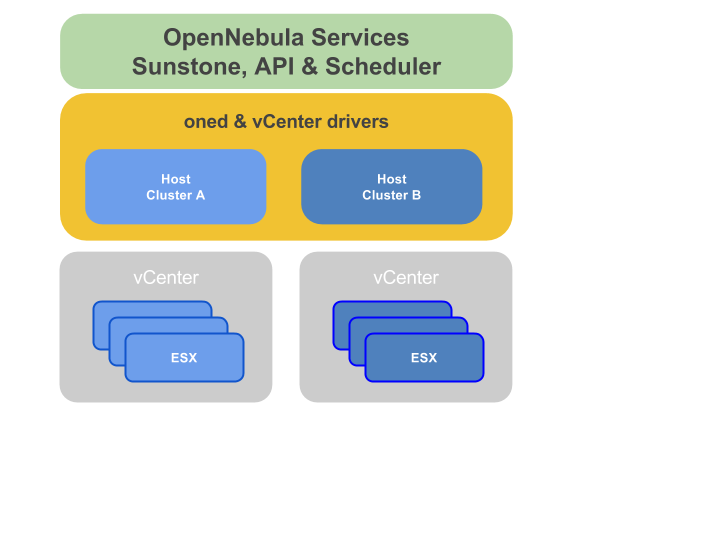
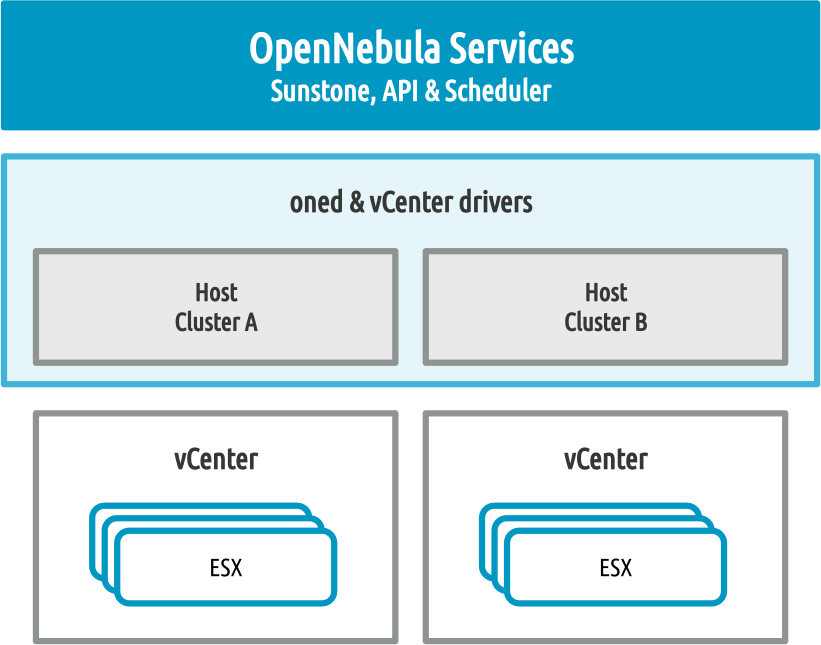
M #-: Changes on VMware cloud design
Change images
Add NSX information

diff --git a/source/deployment/cloud_design/vmware_cloud_architecture.rst b/source/deployment/cloud_design/vmware_cloud_architecture.rst
@@ -4,14 +4,14 @@
 VMware Cloud Architecture
 ================================================================================
 
-OpenNebula is intended for companies willing to create a self-service cloud environment on top of their VMware infrastructure without having to abandon their investment in VMware and retool the entire stack. In these environments, OpenNebula seamlessly integrates with existing vCenter infrastructures to leverage advanced features — such as vMotion, HA or DRS scheduling — provided by the VMware vSphere product family. OpenNebula exposes a multi-tenant, cloud-like provisioning layer on top of vCenter, including features like virtual data centers, data center federation or hybrid cloud computing to connect in-house vCenter infrastructures with public clouds.
+OpenNebula is intended for companies willing to create a self-service cloud environment on top of their VMware infrastructure without having to abandon their investment in VMware and retool the entire stack. In these environments, OpenNebula seamlessly integrates with existing vCenter infrastructures to leverage advanced features — such as vMotion, HA, DRS scheduling or NSX-T / NSX-V — provided by the VMware vSphere product family. OpenNebula exposes a multi-tenant, cloud-like provisioning layer on top of vCenter, including features like virtual data centers, data center federation or hybrid cloud computing to connect in-house vCenter infrastructures with public clouds.
 
 OpenNebula over vCenter is intended for companies that want to keep VMware management tools, procedures and workflows. For these companies, throwing away VMware and retooling the entire stack is not the answer. However, as they consider moving beyond virtualization toward a private cloud, they can choose to either invest more in VMware, or proceed on a tactically challenging but strategically rewarding path of open infrastructure.
 
 Architectural Overview
 ================================================================================
 
-OpenNebula assumes that your physical infrastructure adopts a classical cluster-like architecture with a front-end, and a set of vCenter instances grouping ESX hosts where Virtual Machines (VM) will be executed. There is at least one physical network joining all the vCenters and ESX hosts with the front-end. Connection from the front-end to vCenter is for management purposes, whereas the connection from the front-end to the ESX hosts is to support VNC connections.
+OpenNebula assumes that your physical infrastructure adopts a classical cluster-like architecture with a front-end, and a set of vCenter instances grouping ESX hosts where Virtual Machines (VM) will be executed. There is at least one physical network joining all the vCenters and ESX hosts with the front-end. Connection from the front-end to vCenter is for management purposes, whereas the connection from the front-end to the ESX hosts is to support VNC or VMRC connections.
 
 The VMware vCenter drivers enable OpenNebula to access one or more vCenter servers that manage one or more ESX Clusters. Each ESX Cluster is presented in OpenNebula as an aggregated hypervisor. Note that OpenNebula scheduling decisions are therefore made at ESX Cluster level; vCenter then uses the DRS component to select the actual ESX host and Datastore to deploy the Virtual Machine.
 
@@ -24,7 +24,7 @@ A cloud architecture is defined by three components: storage, networking and vir
 -  **Front-end** that executes the OpenNebula services.
 -  Hypervisor-enabled **hosts** that provide the resources needed by the VMs.
 -  **Datastores** that hold the base images of the VMs.
--  Physical **networks** used to support basic services such as interconnection of the VMs.
+-  Physical or software defined **networks** used to support basic services such as interconnection of the VMs.
 
 OpenNebula presents a highly modular architecture that offers broad support for commodity and enterprise-grade hypervisors, monitoring, storage, networking and user management services. This Section briefly describes the different choices that you can make for the management of the different subsystems. If your specific services are not supported we recommend checking the drivers available in the `Add-on Catalog <https://github.com/OpenNebula/one/wiki/Add_ons-Catalog>`__. We also provide information and support about how to develop new drivers.
 
@@ -118,7 +118,15 @@ Networking
 
 Networking in OpenNebula is handled by creating or importing Virtual Network representations of vCenter Networks and Distributed vSwitches. In this way, new VMs with defined network interfaces will be bound by OpenNebula to these Networks and/or Distributed vSwitches. OpenNebula can create a new logical layer of these vCenter Networks and Distributed vSwitches; in particular, three types of Address Ranges can be defined per Virtual Network representing the vCenter network resources: plain Ethernet, IPv4 and IPv6. This networking information can be passed to the VMs through the :ref:`contextualization <vcenter_contextualization>` process.
 
-Please check the :ref:`Networking Chapter <nm>` to find out more about the networking support in vCenter infrastructures by OpenNebula.
+OpenNebula supports NSX-T and NSX-V logical switches through the NSX Manager API. Some of the key points of this integration are:
+
+-  NSX Manager is automatically detected from vCenter Server. 
+-  Transport Zones are automatically discovered.
+-  Logical switches are created in the NSX Manager after a Virtual Network is created in OpenNebula.
+-  Link VM NICs to these logical switches through the OpenNebula GUI, both at deployment and run times.
+-  Import or remove existing logical switches.
+
+Please check the :ref:`vCenter Networking Setup <vcenter_networking_setup>` and :ref:`NSX Setup <nsx_setup>` to find out more about the networking support in vCenter infrastructures by OpenNebula.
 
 Authentication
 ================================================================================
